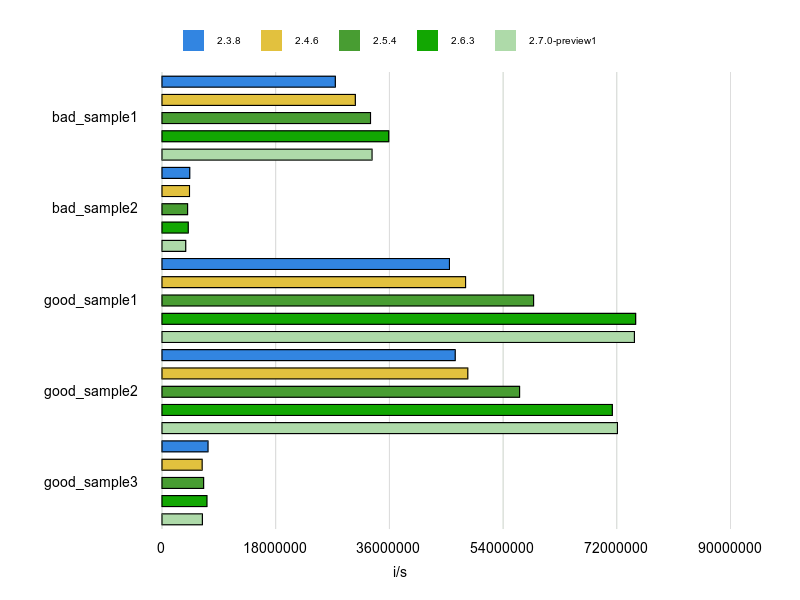
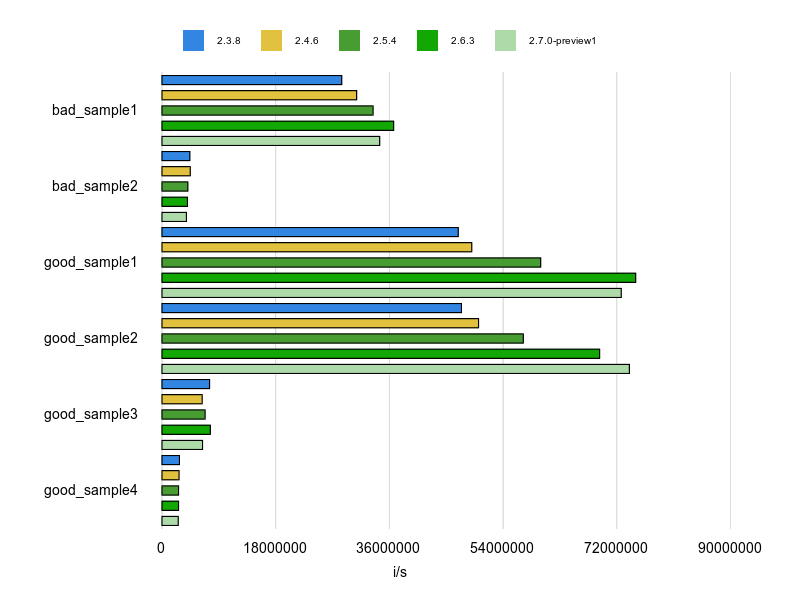
improve size

Changed region(s): [[0.0312, 0.12, 0.8125, 0.9]]

diff --git a/benchmarks/size.rb b/benchmarks/size.rb
@@ -35,6 +35,10 @@ Benchmark.driver(output: output) do |x|
     def good_sample3
       ARRAY.count { |e| e > 2 }
     end
+
+    def good_sample4
+      HASH.count { |k, v| v > 2 }
+    end
   RUBY
 
   x.report %{ bad_sample1 }
@@ -42,4 +46,5 @@ Benchmark.driver(output: output) do |x|
   x.report %{ good_sample1 }
   x.report %{ good_sample2 }
   x.report %{ good_sample3 }
+  x.report %{ good_sample4 }
 end
